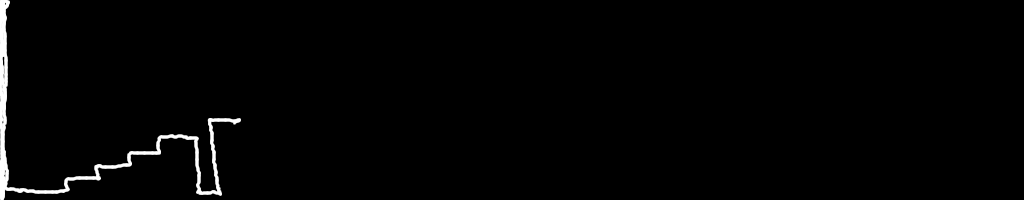
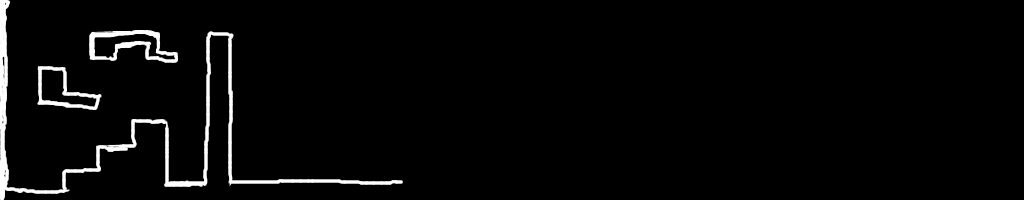
Fixed issues with collision detection and updated background

Changed region(s): [[0.0625, 0.15, 0.4062, 0.99], [0.0312, 0.33, 0.125, 0.57]]

diff --git a/gamecanvas.js b/gamecanvas.js
@@ -1,6 +1,6 @@
 // ---------------------------------------------------------
 // GLOBAL OBJECTS
-var runningLocallyOnFirefox = false;
+var runningLocallyOnFirefox = (location.href.substr(0,7) == "file://");
 
 // timer engine
 var gameControl = new( function() {
@@ -9,7 +9,7 @@ var gameControl = new( function() {
     this.stopTime = this.startTime;
     this.elapsed = 0;
     this.dt = 0;
-    this.step = 1000/this.fps;
+    this.step = 10;
     this.skip = false;
 } )
 
@@ -50,6 +50,7 @@ var keys = new( function() {
 })
 
 var assets = new( function() {
+    this.bgVisible = false;
     this.bgImage = new Image();
     this.bgImage.src = "bg1.png";
     this.bgCanvas = document.createElement('canvas');
@@ -64,6 +65,12 @@ var player = new( function() {
     this.speedUp = 0;
     this.speedRight = 0;
     this.standing = false;
+    this.oldx = this.x;
+    this.oldy = this.y;
+    this.rejecting = false;
+    this.jumpStrength = 200;
+    this.horzSpeed = 100;
+    this.gravityStrength = 500;
 })
 
 // ------------------------------------------------------------------------
@@ -134,31 +141,55 @@ function update(dt) {
     
     // vertical movement
     if (keys.upPressed && player.standing)
-	player.speedUp = 100;
+	player.speedUp = player.jumpStrength;
     else 
-	player.speedUp = player.speedUp - 10;
+	player.speedUp = player.speedUp - player.gravityStrength * dts;
     
     player.y = player.y - player.speedUp * dts;
     
     if (playerCollidedVertical()) {
-	if (player.speedUp < 0)
-	    player.standing = true;
-	player.speedUp = 0;
 	player.y = origy;
+	if (player.speedUp < 0) {
+	    player.standing = true;
+	    // "reject" the player
+	    var ii;
+	    for (ii=0;ii<player.height/2;ii++)
+		if (!checkImageData(player.x+player.width/2, player.y+player.height-ii))    
+		    break;
+	    player.y = player.y - ii;
+	}
+	player.speedUp = 0;
+	
     } else
 	player.standing = false;
     
     // horizontal movement
-    player.speedRight = 0;
-    if (keys.rightPressed)
-	player.speedRight = 100;
-    if (keys.leftPressed)
-	player.speedRight = -100;
+    if (!player.rejecting) {
+	player.speedRight = 0;
+	if (keys.rightPressed)
+	    player.speedRight = player.horzSpeed;
+	if (keys.leftPressed)
+	    player.speedRight = -player.horzSpeed;
+    }
 	
     player.x = player.x + player.speedRight * dts;
     if (playerCollidedHorizontal()) {
-	player.speedRight = 0;
-	player.x = origx;
+	player.rejecting = true;
+        player.x = origx;
+	// reject the player
+	if (player.speedRight != 0) {
+	    var ii;
+	    for (ii=0;ii<player.width/2;ii++)
+		if (!checkImageData(player.x+(player.speedRight>0?player.width-ii:ii), player.y+player.height/2)) {   
+		    player.rejecting = false;
+		    break;
+		}
+	    player.x = player.x + (player.speedRight>0? -ii : ii );
+	}
+	
+	if (!player.rejecting)
+	    player.speedRight = 0;
+	
     }
     
     // (by now) stop the game if out of bounds
@@ -171,10 +202,18 @@ function draw(dt) {
     var canvas = document.getElementById("canvas1");
     var context = canvas.getContext("2d");
     
-    context.drawImage(assets.bgCanvas,0,0);
+    if (!assets.bgVisible) {
+        context.drawImage(assets.bgCanvas,0,0);
+	assets.bgVisible = true;
+    }
+    context.drawImage(assets.bgCanvas, player.oldx, player.oldy, player.width, player.height, player.oldx, player.oldy, player.width, player.height); 
+    
+    player.oldx = Math.floor(player.x+player.speedRight*dts + 0.5);
+    player.oldy = Math.floor(player.y-player.speedUp*dts + 0.5);
     
     context.fillStyle = "#FFFFFF";
-    context.fillRect(player.x+player.speedRight*dts, player.y-player.speedUp*dts, player.width, player.height);
+    context.fillRect(player.oldx, player.oldy, player.width, player.height);
+    
 }
 
 function myGetImageData(ctx, sx, sy, sw, sh) {
